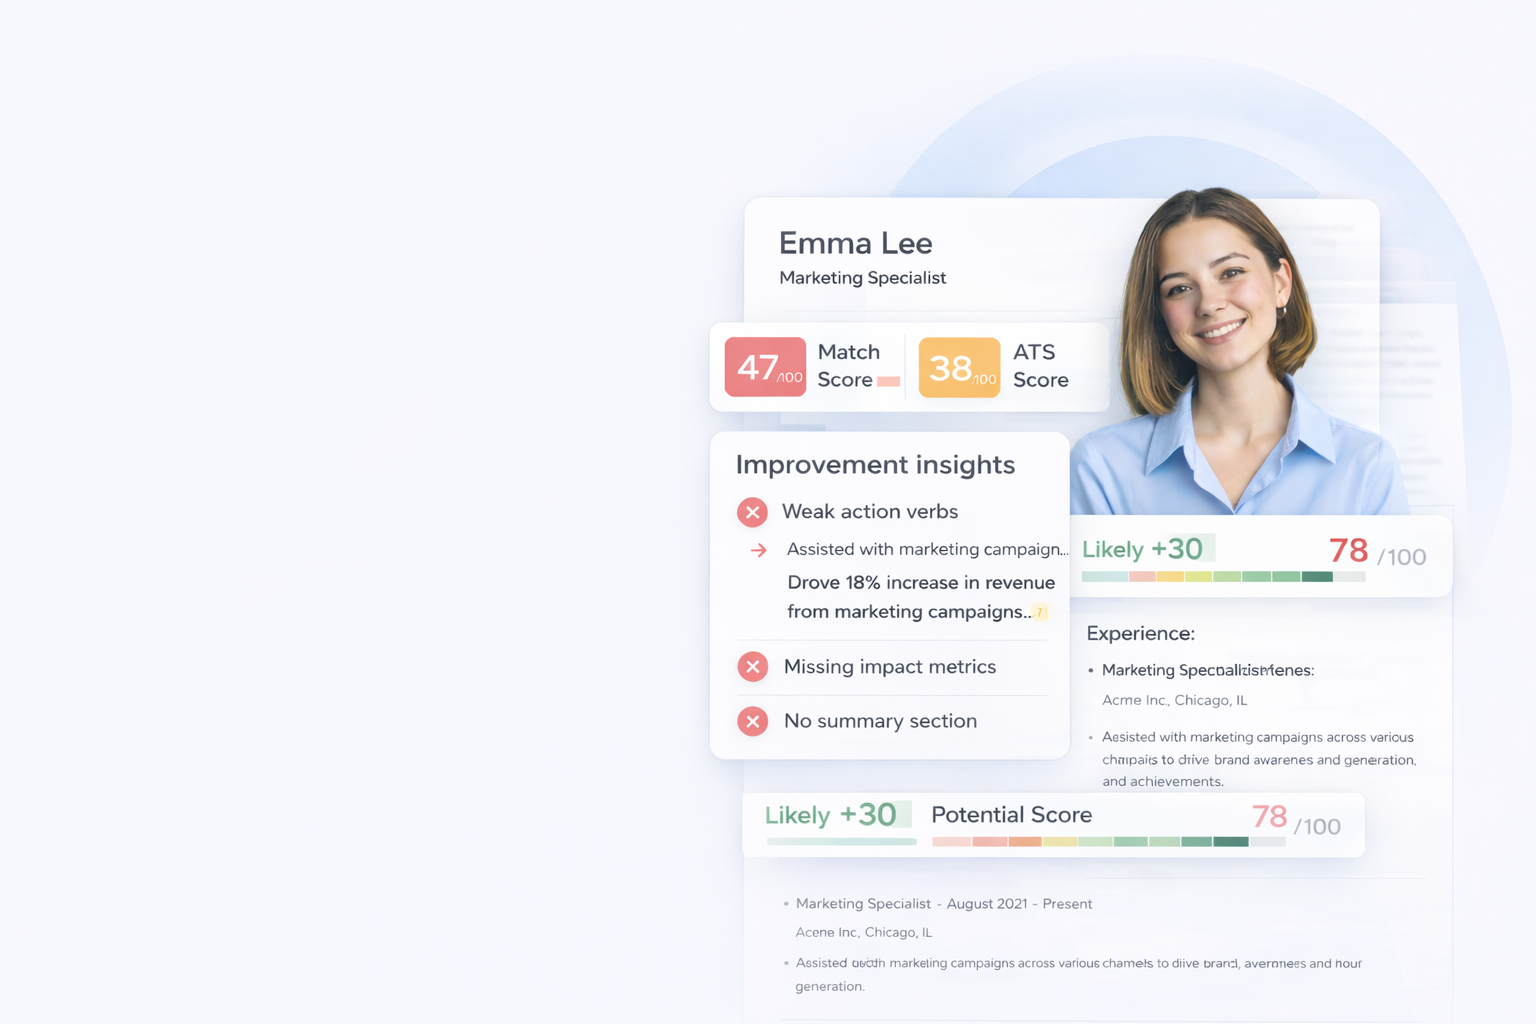
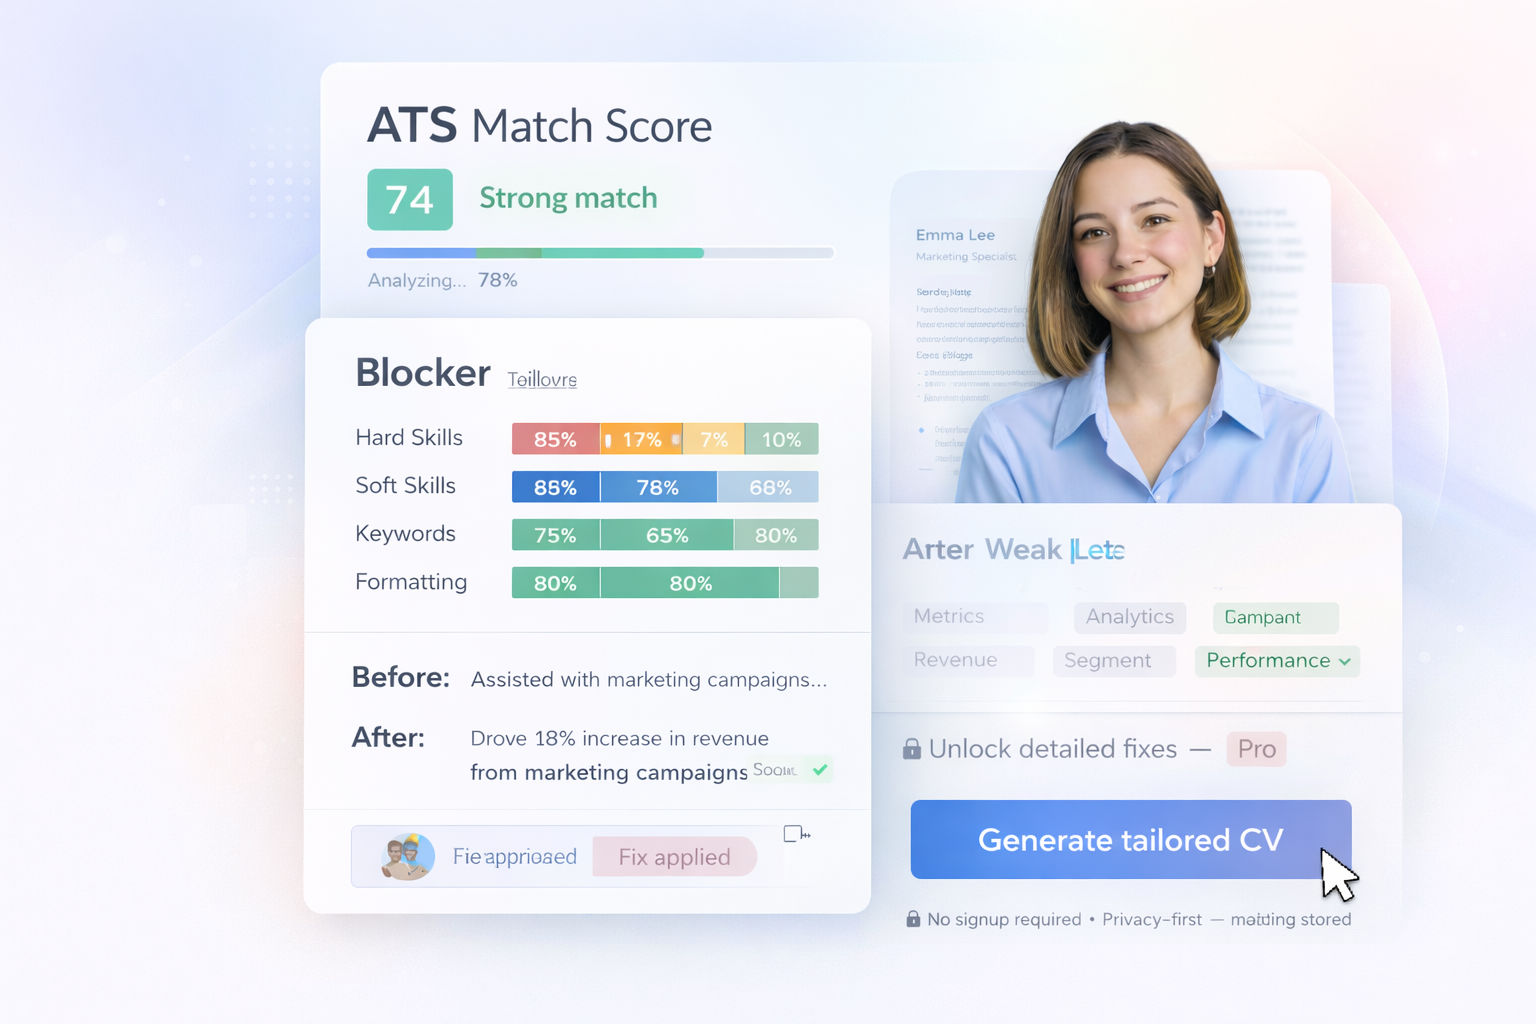
Add urgency badge, update hero image, fix mobile layout
- Add "Only 3% of resumes make it past the first screen" pill above heading
- Replace hero image with new DALL-E version (ATS score + woman)
- Move AnimatedDemo to its own section right below hero
- Mobile: full image centered below text, no crop offset
- Desktop: image unchanged

Changed region(s): [[0.0938, 0.0312, 0.9688, 0.9688], [0.2188, 0.875, 0.25, 0.9062]]

diff --git a/src/app/page.tsx b/src/app/page.tsx
@@ -131,6 +131,10 @@ export default function LandingPage() {
 
         <div className="relative z-10 mx-auto max-w-6xl px-4 pb-16 pt-16 sm:pb-24 sm:pt-24 lg:pb-28 lg:pt-28">
           <div className="max-w-xl text-center lg:max-w-lg lg:text-left">
+            {/* Urgency hook */}
+            <p className="mb-4 inline-block rounded-full border border-red-200 bg-red-50 px-3 py-1 text-xs font-semibold text-red-600 sm:text-sm">
+              Only 3% of resumes make it past the first screen
+            </p>
             {/* min-h reserves space for the longest rotating word so layout doesn't shift */}
             <h1 className="min-h-[4.5rem] text-[1.75rem] font-extrabold leading-[1.1] tracking-[-0.02em] text-gray-900 sm:min-h-[6rem] sm:text-[2.75rem] lg:min-h-[7.5rem] lg:text-[3.25rem]">
               The resume that gets you{" "}
@@ -183,12 +187,12 @@ export default function LandingPage() {
             </div>
           </div>
 
-          {/* Mobile: show image below text */}
+          {/* Mobile: show full image below text */}
           <div className="mt-10 lg:hidden">
             <img
               src="/images/hero-mockup.png"
               alt="ResumeMate product screenshot showing a resume analysis with score improvement"
-              className="mx-auto w-full max-w-sm"
+              className="mx-auto w-full max-w-sm rounded-lg"
             />
           </div>
 
@@ -196,6 +200,13 @@ export default function LandingPage() {
           <p className="mt-12 text-center text-xs text-gray-400 sm:text-sm lg:mt-16 lg:text-left">
             250 applicants compete for every opening · 97% never get a call · Recruiters spend 6 seconds on your resume
           </p>
+        </div>
+      </section>
+
+      {/* Interactive demo — right below hero */}
+      <section className="bg-white px-4 pb-16 pt-8 sm:pt-12">
+        <div className="mx-auto max-w-2xl">
+          <AnimatedDemo />
         </div>
       </section>
 
@@ -220,11 +231,6 @@ export default function LandingPage() {
                 <p className="mt-1 text-sm text-gray-500">{s.desc}</p>
               </div>
             ))}
-          </div>
-
-          {/* Interactive demo */}
-          <div className="mx-auto mt-12 max-w-2xl">
-            <AnimatedDemo />
           </div>
         </div>
       </section>
